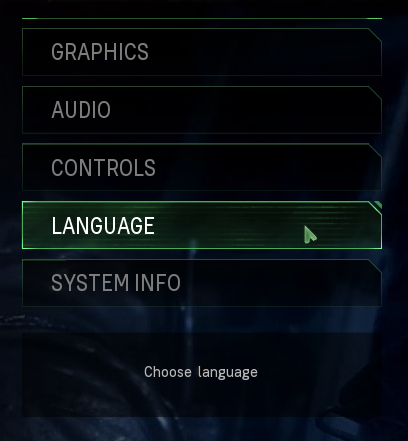
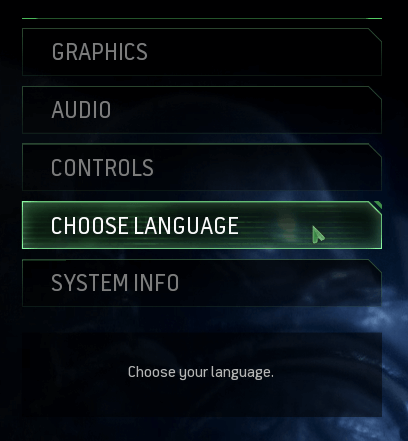
Minor changes (#9)

diff --git a/docs/languages.md b/docs/languages.md
@@ -5,7 +5,7 @@
 If you own the game on Steam, you can download the language pack needed for the game.
 1. Right click on the MWR game
 2. Select `Properties...`
-3. Go to the `Language` tab, and select the language you wish to use from the drop-down menu.
+3. Go to the `Choose Language` tab, and select the language you wish to use from the drop-down menu.
 
 ## Downloading from MEGA
 
@@ -48,9 +48,9 @@ Once done, verify your language folder looks similar to this.
 
 ## Switching
 
-1. Once you are ingame, open the `Options` menu, and then you should see a `Language` button. This will redirect you to a menu that will switch your language.
+1. Once you are in-game, open the `Options` menu, and then you should see a `Choose Language` button. This will redirect you to a menu that will switch your language.
 
 <img align="right" src="/img/language-in-game-options.png" />
 
-2. Select your desired language and then restart your game.
-   - If your language button is missing or grayed out, then the language isn't installed correctly.
+2. Select your desired language.
+   - If your language button is missing, then the language isn't installed correctly.
